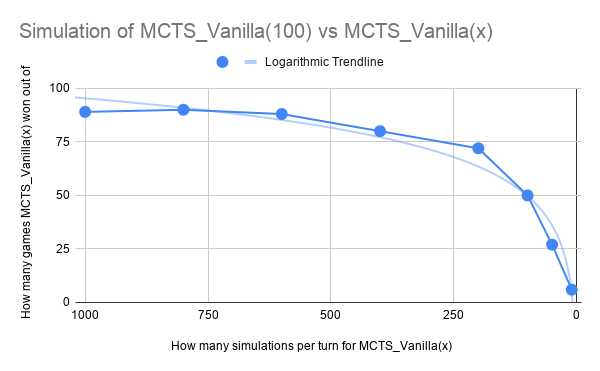
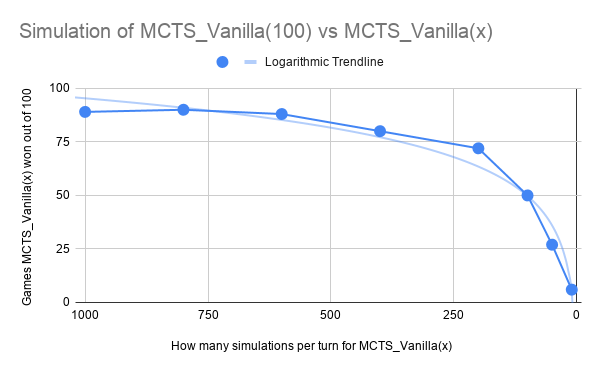
Fixed the 100 getting cut off in the png file

Changed region(s): [[0.03, 0.1779, 0.06, 0.8598]]

diff --git a/src/mcts_modified.py b/src/mcts_modified.py
@@ -3,7 +3,7 @@ from mcts_node import MCTSNode
 from random import choice
 from math import sqrt, log
 
-num_nodes = 1000
+num_nodes = 600
 explore_faction = 2.
 
 # Given a node returns the confidence interval

diff --git a/src/mcts_vanilla.py b/src/mcts_vanilla.py
@@ -3,7 +3,7 @@ from mcts_node import MCTSNode
 from random import choice
 from math import sqrt, log
 
-num_nodes = 1000
+num_nodes = 600
 explore_faction = 2.
 
 # Given a node returns the confidence interval
